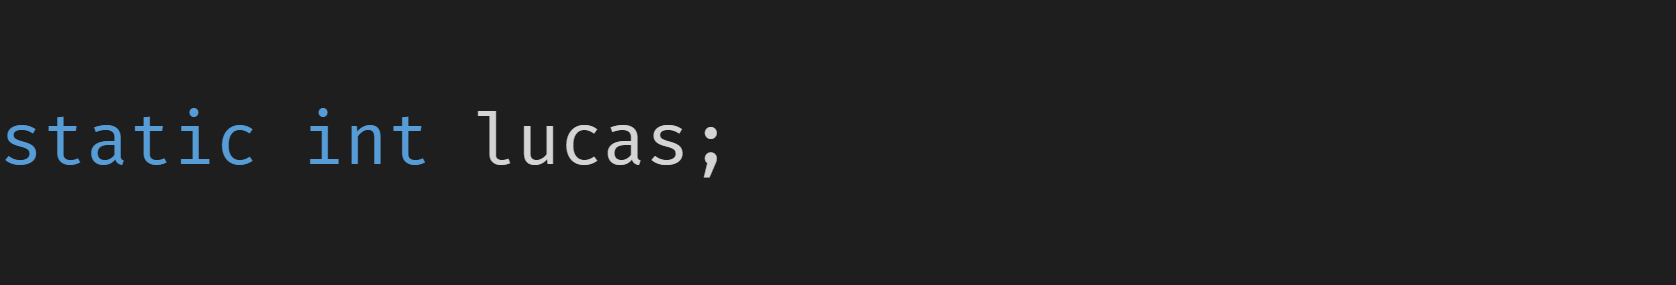
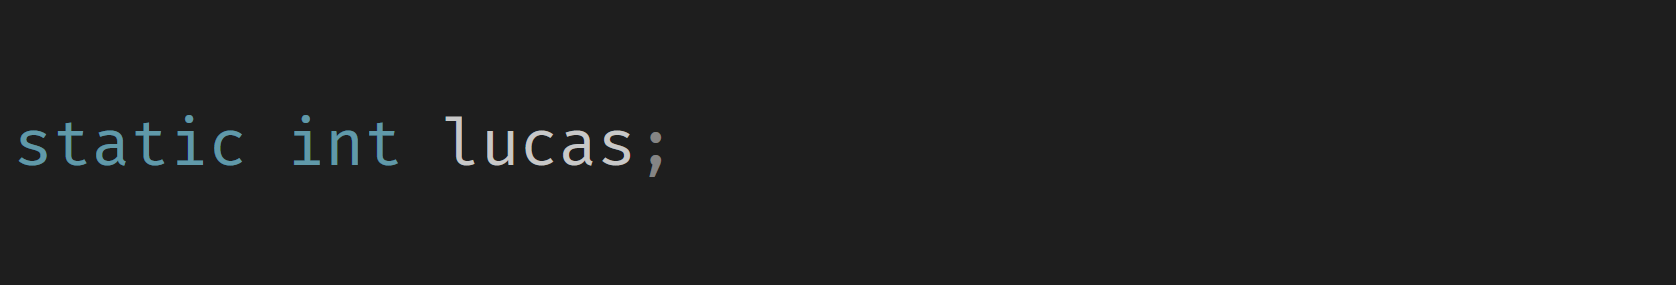
Reformat README and update header image to match website colour scheme

Changed region(s): [[0.0, 0.393, 0.4344, 0.6175]]

diff --git a/README.md b/README.md
@@ -1,11 +1,6 @@
 ![static int lucas;][headerimg]
 
-### Real name: Lucas Jansen
-
-[:baby_chick: twitter][twitterurl]  
-[:octocat: github][githuburl]
-
----
+# Hi
 
 I am an electronic and software engineer from Cork, Ireland. I have a master's degree Electrical and
 Electronic engineering, and I currently work on embedded software at Qualcomm.
@@ -19,3 +14,8 @@ scared by anything web related.
 [headerimg]: https://raw.githubusercontent.com/staticintlucas/staticintlucas/master/header.png
 [twitterurl]: https://twitter.com/staticintlucas
 [githuburl]: https://github.com/staticintlucas
+
+---
+
+[:baby_chick: Twitter][twitterurl]  
+[:octocat: Github][githuburl]
